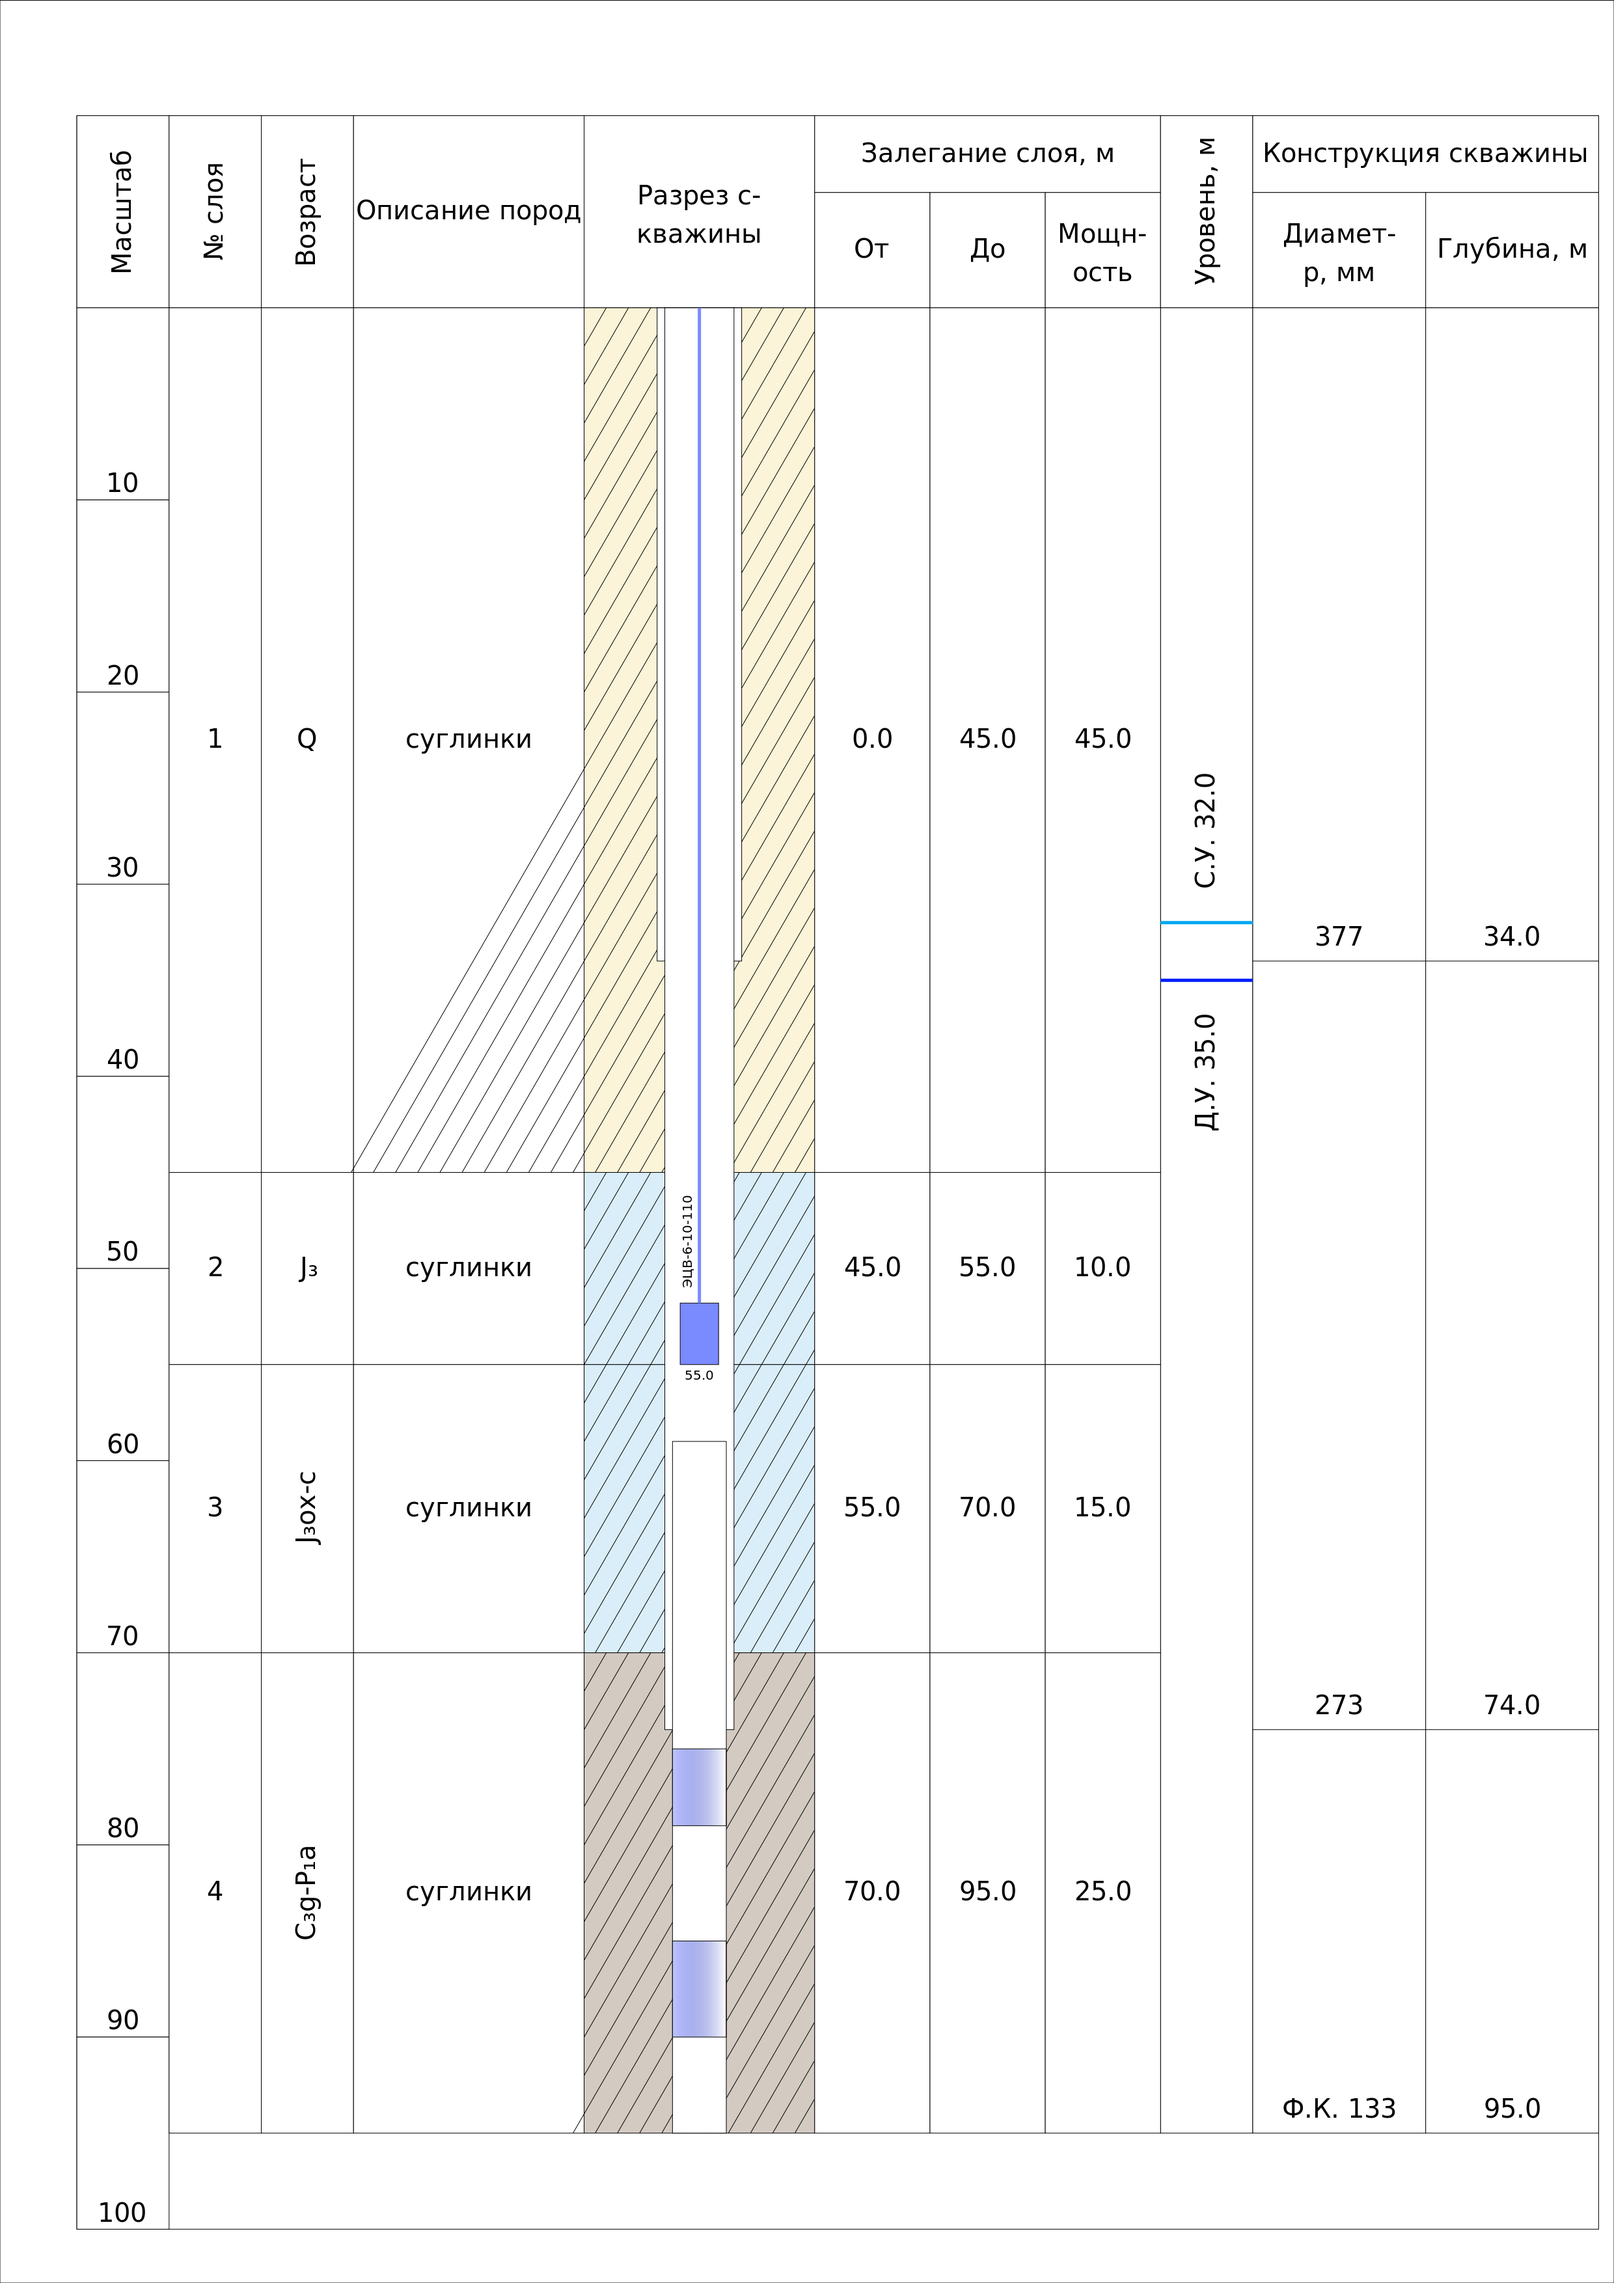
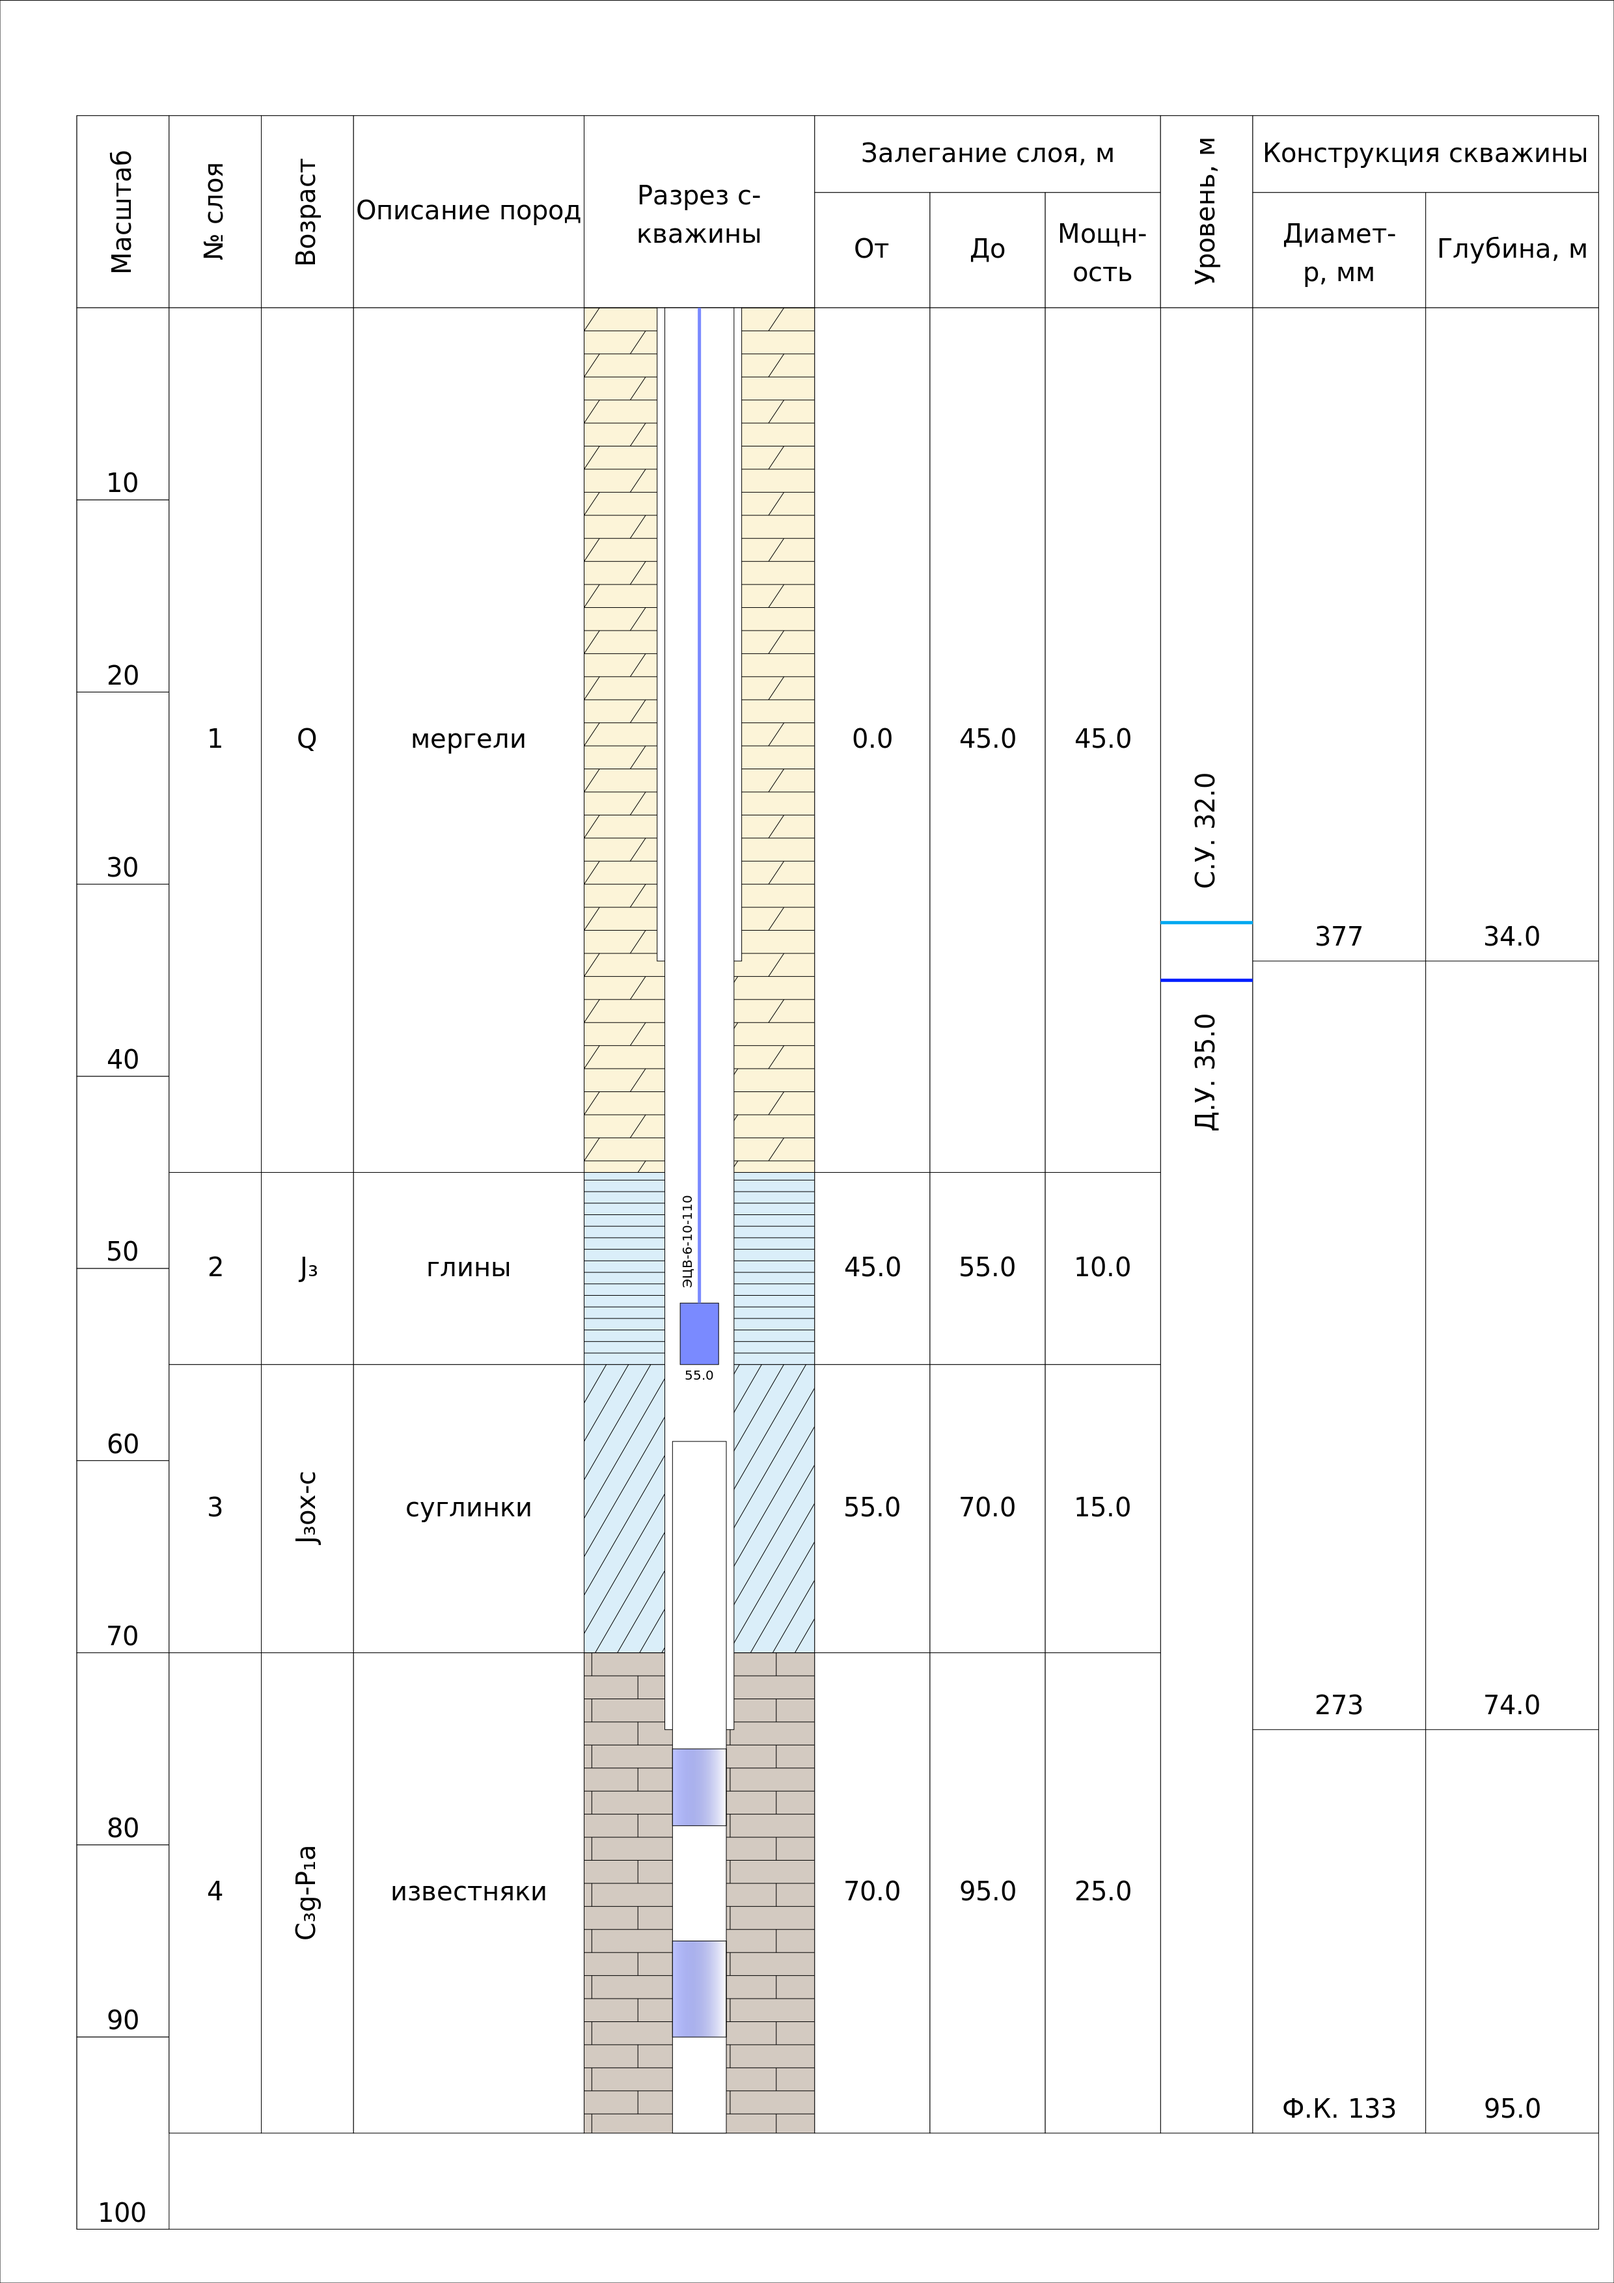
fix loams and add marls

diff --git a/drawing/specks.py b/drawing/specks.py
@@ -16,6 +16,8 @@ def speck(d, x, y, width, height, sediments):
             limestones(d, x, y, width, height)
         elif sediments[0] == 'суглинки':
             loams(d, x, y, width, height)
+        elif sediments[0] == 'мергели':
+            marls(d, x, y, width, height)
 
 
 # пески
@@ -84,7 +86,6 @@ def limestones(d, x, y, width, height):
                                ((i + 1) * delta_y - height * koef), stroke='black')
                 d.append(c)
                 x_start += delta_x
-                x_start += delta_x
         i += 1
         # смещение начальной точки
         if i % 2 == 0:
@@ -107,7 +108,7 @@ def loams(d, x, y, width, height):
     x_start = x * koef
     # отрисовываем с левого угла
     # движемся по левой грани вниз, по верхней грани вправо
-    while y_start >= (y - height) * koef + delta_y and x_start <= (x + width) * koef:
+    while y_start >= (y - width/tg_30) * koef and x_start <= (x + width) * koef:
         c = draw.Lines(
             x*koef, y_start - delta_y,
             x_start + delta_x, y*koef,
@@ -116,25 +117,38 @@ def loams(d, x, y, width, height):
         d.append(c)
         y_start -= delta_y
         x_start += delta_x
-    # переназначаем начальные значения
-    x_low_start = ((y-height)*koef - y_start) * tg_30 + delta_x
-    # движемся по верхней грани вправо, по нижней грани - тоже вправо
-    while x_start <= (x + width) * koef - delta_x:
-        c = draw.Lines(
-            x * koef + x_low_start, (y - height) * koef,
-            x_start + delta_x, y*koef,
-            stroke='black'
-        )
-        d.append(c)
-        x_low_start += delta_x
-        x_start += delta_x
-    # правый нижний угол
-    # переназначаем начальные значения
-    y_right_start = delta_y - \
-        (delta_x - (x_start + delta_x - (x+width)*koef))/tg_30
+    # в зависимости от высоты и ширины получается два варианта:
+    if width >= height:  # ширина больше высоты
+        # переназначаем начальные значения
+        x_low_start = ((y-height)*koef - y_start) * tg_30 + delta_x
+        # движемся по верхней грани вправо, по нижней грани - тоже вправо
+        while x_start <= (x + width) * koef - delta_x and (x + x_low_start) * koef <= (x + width) * koef:
+            c = draw.Lines(
+                x * koef + x_low_start, (y - height) * koef,
+                x_start + delta_x, y*koef,
+                stroke='black'
+            )
+            d.append(c)
+            x_low_start += delta_x
+            x_start += delta_x
+        y_right_start = delta_y - \
+            (delta_x - (x_start + delta_x - (x+width)*koef))/tg_30
+    else:  # высота больше ширины
+        y_right_start = delta_y - \
+            (delta_x - (x_start + delta_x - (x+width)*koef))/tg_30
+        while y_start >= (y-height) * koef + delta_y:
+            print(y_right_start)
+            c = draw.Lines(
+                x * koef, y_start - delta_y,
+                (x + width) * koef, y*koef - y_right_start,
+                stroke='black'
+            )
+            d.append(c)
+            y_start -= delta_y
+            y_right_start += delta_y
+        x_low_start = ((y-height)*koef - y_start) * tg_30 + delta_x
     # движемя по правой грани вниз, по нижней грани - вправо
-    while y * koef - y_right_start >= (y - height) * koef:
-        # print(y_right_start)
+    while y * koef - y_right_start >= (y - height) * koef and x * koef + x_low_start <= (x + width) * koef and x * koef + x_low_start >= x * koef:
         c = draw.Lines(
             x*koef + x_low_start, (y - height) * koef,
             (x + width)*koef, y*koef - y_right_start,
@@ -143,5 +157,53 @@ def loams(d, x, y, width, height):
         d.append(c)
         y_right_start += delta_y
         x_low_start += delta_x
-    # дописать случай, когда движемся вниз по левой и правой грани
-    # и выставить условия для остальных
+
+
+# мергели
+def marls(d, x, y, width, height):
+    # смещение по горизонтали, вертикали, изменение смещения по горизонтали
+    delta_y = 3*koef
+    delta_x = 4*delta_y
+    delta = 0
+    # начальный отступ
+    indent = 1
+    i = 0
+    # стартовые значения
+    y_start = y * koef
+    x_start = (x + indent) * koef
+    while y_start > (y - height) * koef:
+        c = draw.Lines(x*koef, y_start, (x + width) *
+                       koef, y_start, stroke='black')
+        d.append(c)
+        while x_start < (width + x - indent) * koef:
+            # следующий цикл нужен, чтоб обрезать вертикальные линии,
+            # которые могут вылезти за пределы слоя
+            if (i + 1) * delta_y <= height * koef:
+                c = draw.Lines(
+                    x_start + 1 * koef, y_start,
+                    x_start - 1 * koef, y_start - delta_y,
+                    stroke='black'
+                )
+                d.append(c)
+                x_start += delta_x
+            else:
+                # остаток от delta_y
+                y_min = delta_y + ((i + 1) * delta_y - height * koef)
+                # поправка смещения (вместо +1 и -1)
+                new_d = (delta_y - y_min) * (2 * koef/delta_y)
+                # y2 - как раз смещение минус разница, вылезающая за пределы
+                c = draw.Lines(x_start + 1 * koef, y_start,
+                               x_start - 1 * koef + new_d, y_start - y_min,
+                               stroke='black'
+                               )
+                d.append(c)
+                x_start += delta_x
+        i += 1
+        # смещение начальной точки
+        if i % 2 == 0:
+            delta -= delta_x/2
+        else:
+            delta += delta_x/2
+        # обнуление начальной точки + смещение
+        x_start = (x + indent) * koef + delta
+        y_start -= delta_y

diff --git a/drawing/main.py b/drawing/main.py
@@ -14,28 +14,28 @@ mm_y = 0.003366
 koef = 2480/210
 # шаблон данных для слоев
 # из бд будет прихдить список
-layers_data = {'layers': {
-    1: {'id': 1, 'name': 'Q', 'thick': 45.0, 'sediments': ('суглинки',)},
-    2: {'id': 2, 'name': 'J\u2083', 'thick': 10, 'sediments': ('суглинки',)},
-    3: {'id': 3, 'name': 'J\u2083ox-c', 'thick': 15, 'sediments': ('суглинки',)},
-    4: {'id': 4, 'name': 'C\u2083g-P\u2081a', 'thick': 25, 'sediments': ('суглинки',)}
-}
-}
-well_data = {'well_data': {
-    'columns': {
-        1: {'id': 1, 'D': 377, 'from': 0.0, 'till': 34.0, 'type': 'обсадная'},
-        2: {'id': 2, 'D': 273, 'from': 0.0, 'till': 74.0, 'type': 'обсадная'},
-        3: {'id': 3, 'D': 133, 'from': 59.0, 'till': 95.0, 'type': 'фильтровая', 'filter': {
-            1: {'id': 1, 'from': 75.0, 'till': 79.0},
-            2: {'id': 2, 'from': 85.0, 'till': 90.0},
-        }}
+well_data = {
+    'layers': {
+        1: {'id': 1, 'name': 'Q', 'thick': 45.0, 'sediments': ('мергели',)},
+        2: {'id': 2, 'name': 'J\u2083', 'thick': 10, 'sediments': ('глины',)},
+        3: {'id': 3, 'name': 'J\u2083ox-c', 'thick': 15, 'sediments': ('суглинки',)},
+        4: {'id': 4, 'name': 'C\u2083g-P\u2081a', 'thick': 25, 'sediments': ('известняки',)}
     },
-    'pump_type': 'ЭЦВ-6-10-110',
-    'pump_depth': 55.0,
-    'static_lvl': 32.0,
-    'dynamic_lvl': 35.0,
-    'well_depth': 95.0
-}}
+    'well_data': {
+        'columns': {
+            1: {'id': 1, 'D': 377, 'from': 0.0, 'till': 34.0, 'type': 'обсадная'},
+            2: {'id': 2, 'D': 273, 'from': 0.0, 'till': 74.0, 'type': 'обсадная'},
+            3: {'id': 3, 'D': 133, 'from': 59.0, 'till': 95.0, 'type': 'фильтровая', 'filter': {
+                1: {'id': 1, 'from': 75.0, 'till': 79.0},
+                2: {'id': 2, 'from': 85.0, 'till': 90.0},
+            }}
+        },
+        'pump_type': 'ЭЦВ-6-10-110',
+        'pump_depth': 55.0,
+        'static_lvl': 32.0,
+        'dynamic_lvl': 35.0,
+        'well_depth': 95.0
+    }}
 
 
 def main():
@@ -50,7 +50,7 @@ def main():
     d.append(r)
     header(d)
     scale(d, 95)
-    layers(d, 95, layers_data)
+    layers(d, 95, well_data)
     well(d, well_data)
     d.savePng('example.png')
     # почему-то Svg криво работает, половина графики не отображается
